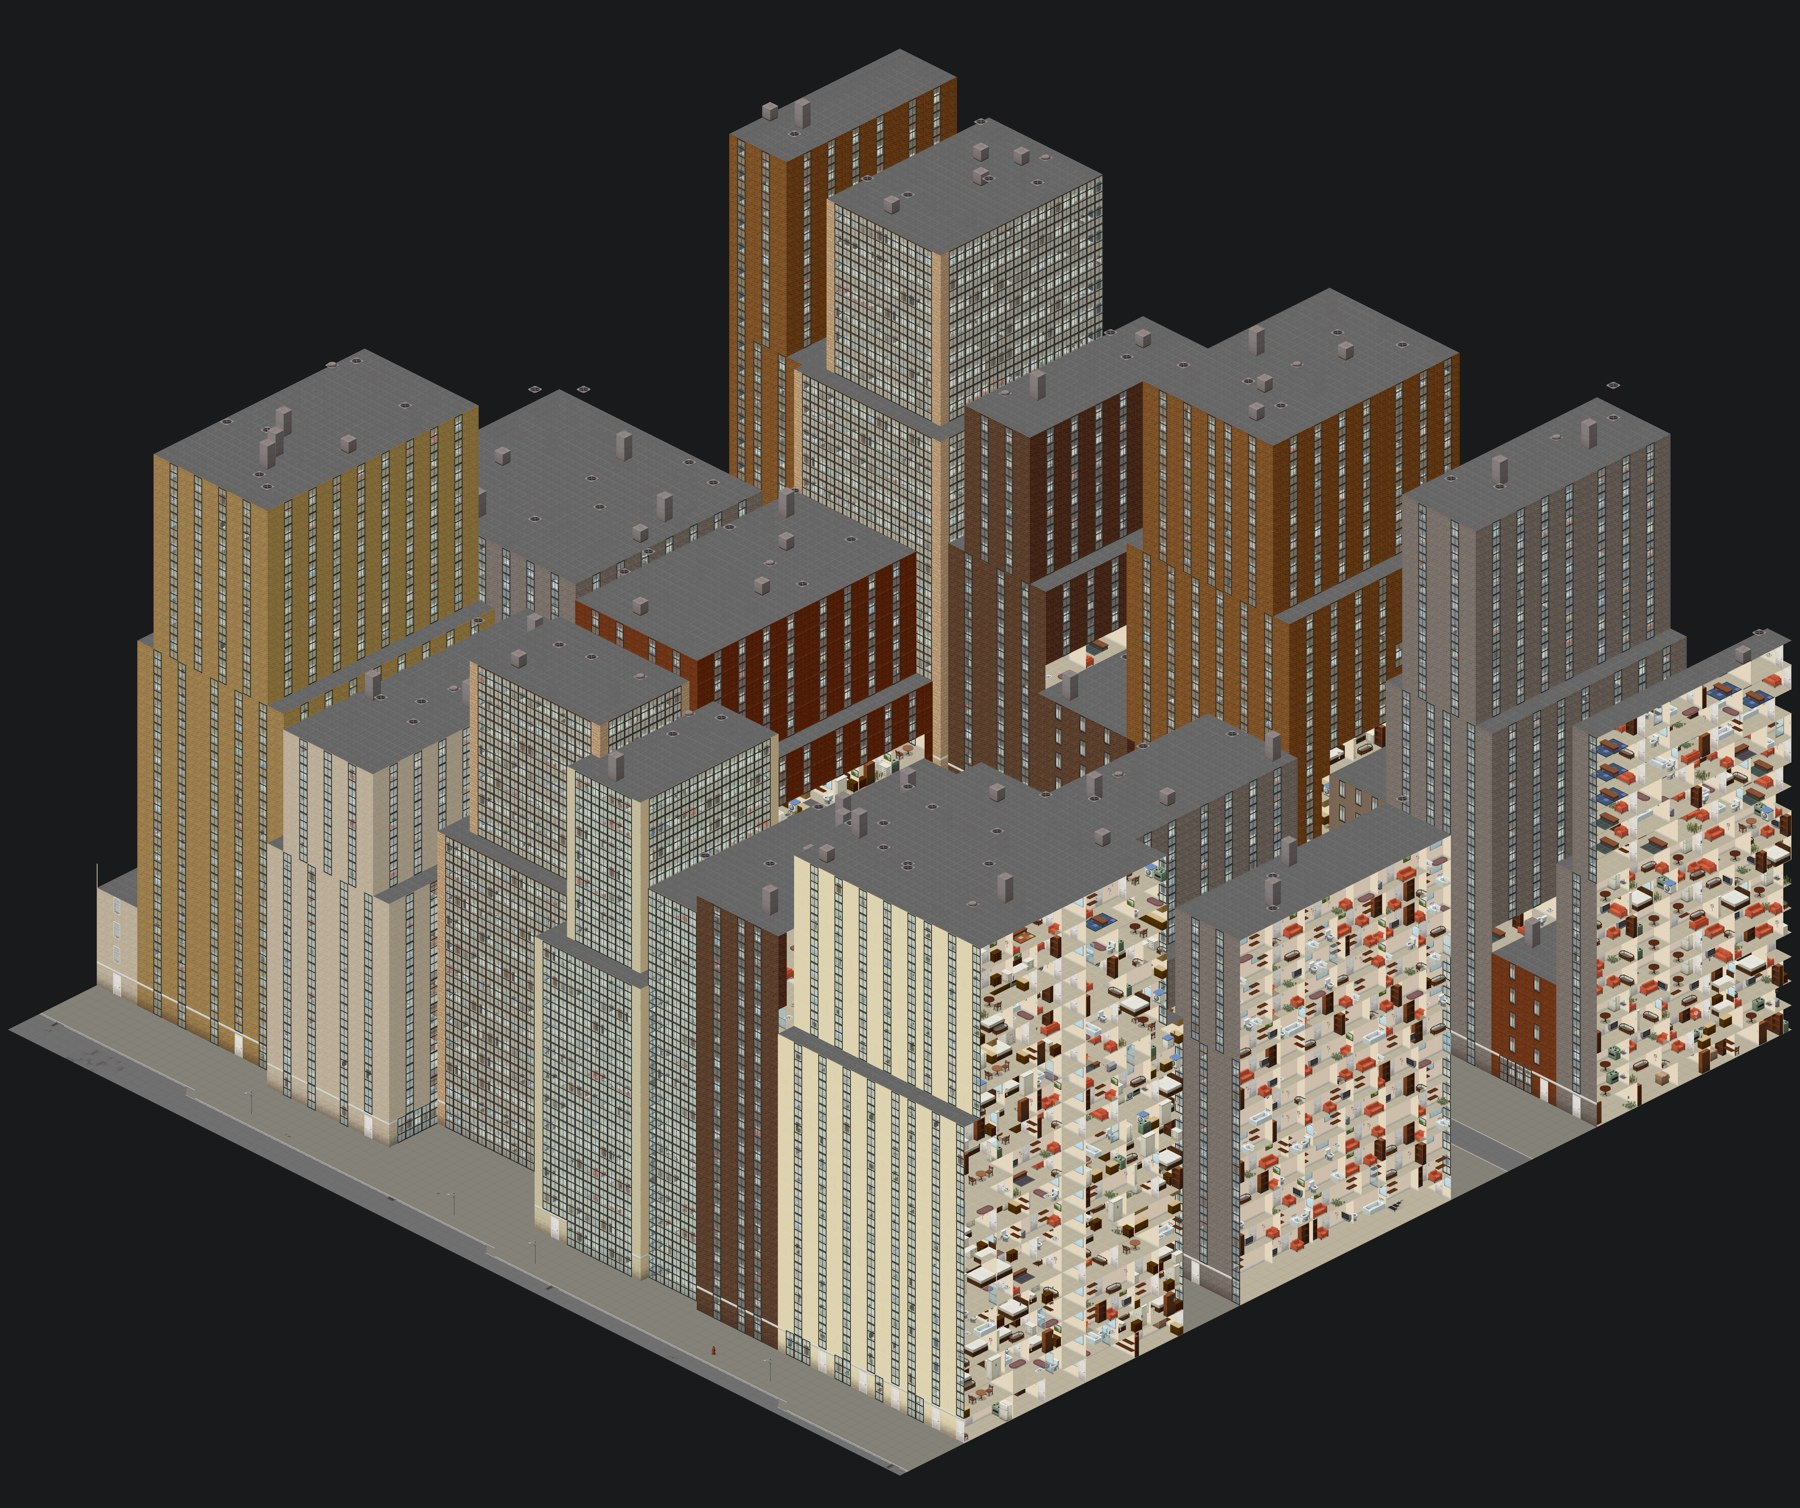
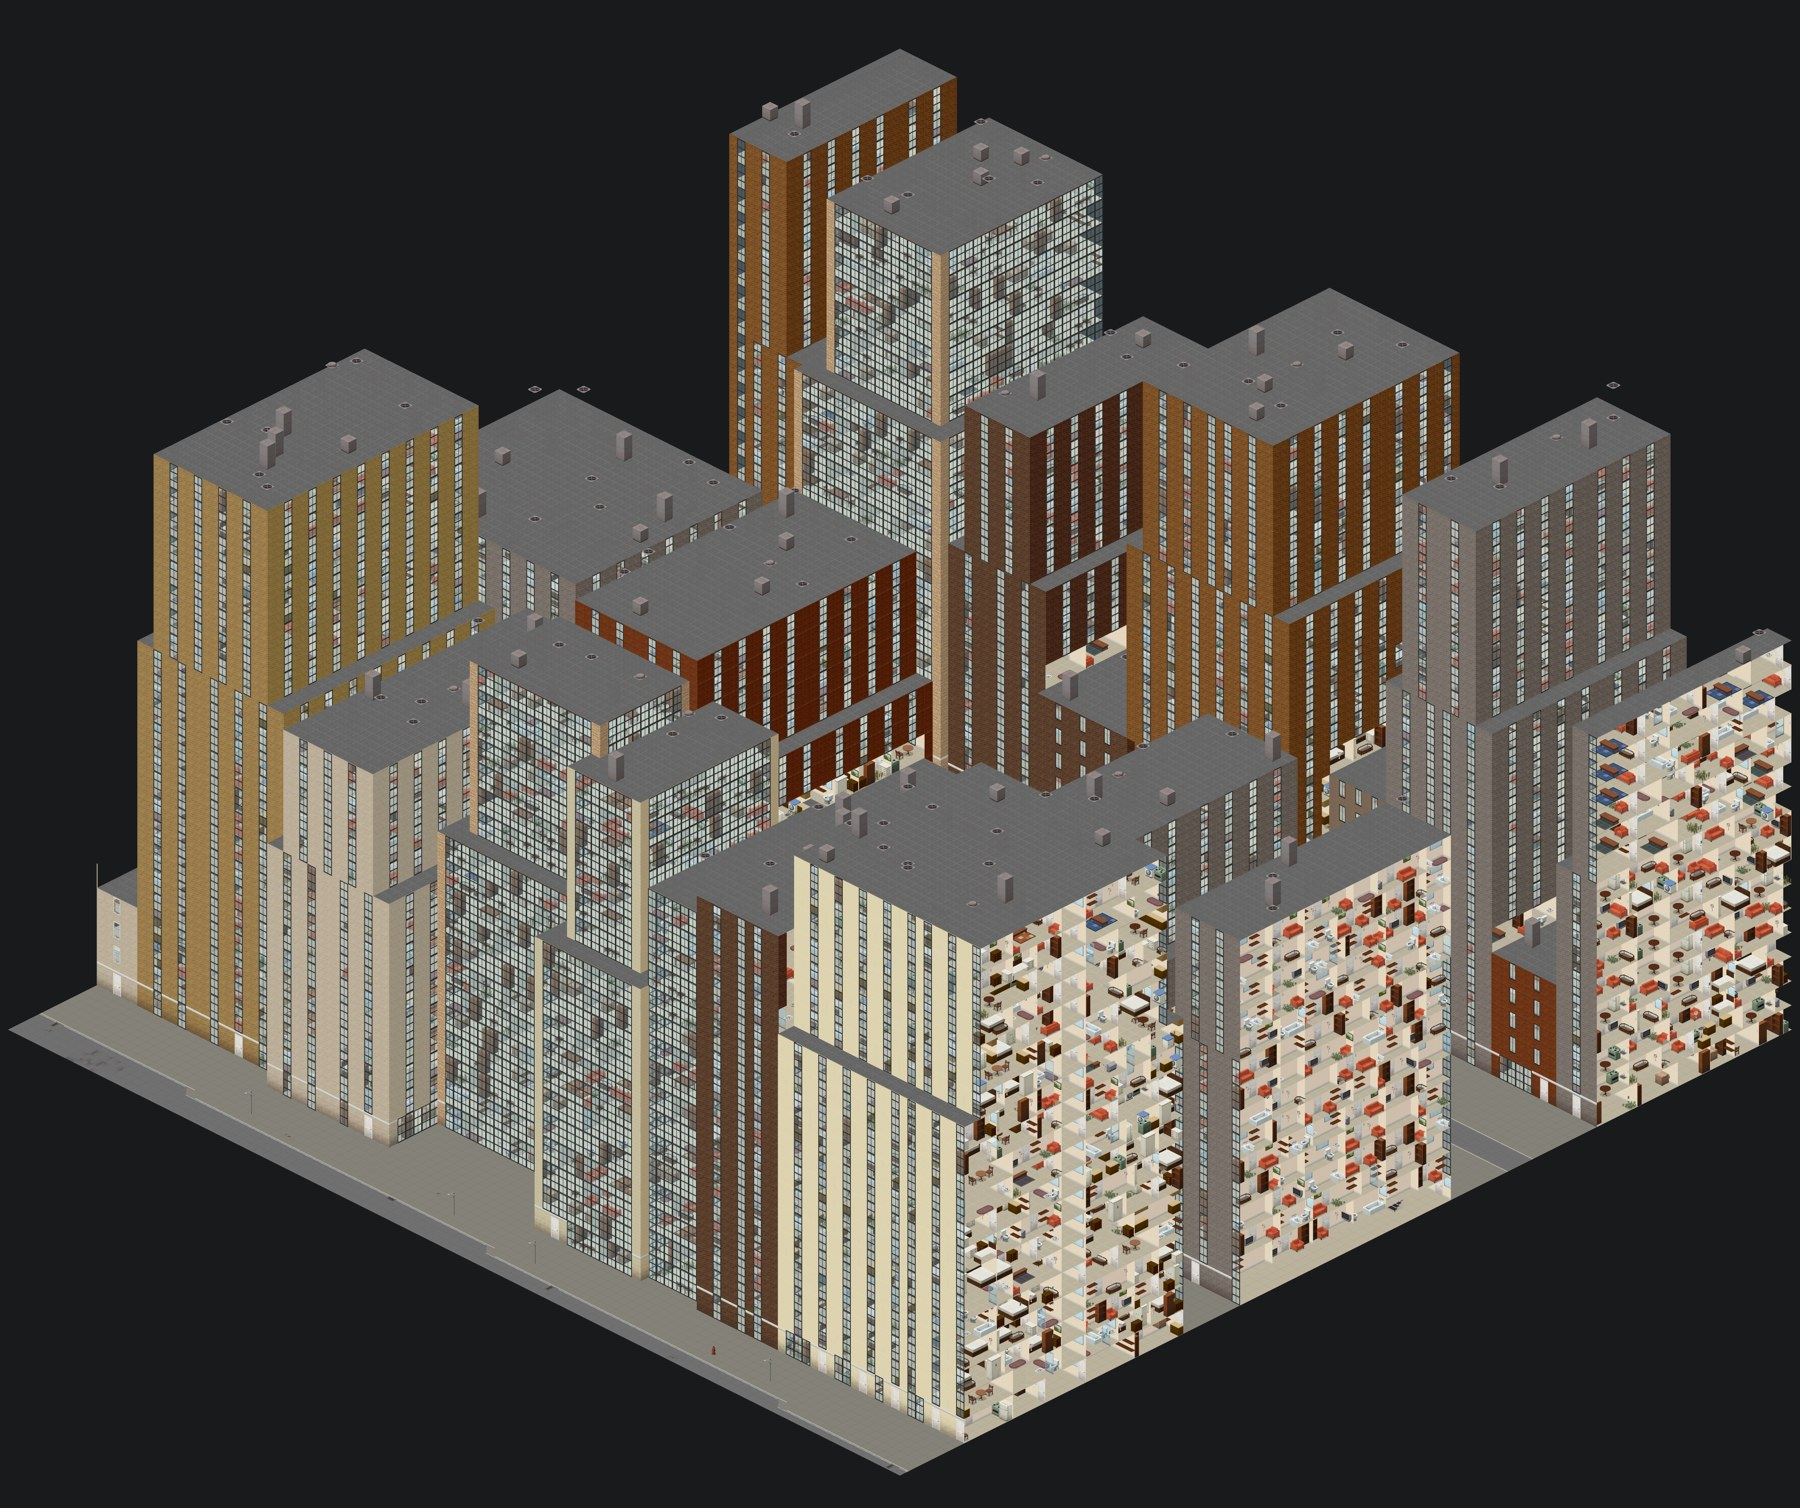
Window openings that fit the window: point the editor at the game
Setup never told the map editor where the game is, and its own search misses
Steam libraries off the default drive. Without the game's tile definitions it
cannot read a window's WindowShape, so every window - floor-to-ceiling glass
panels included - got the small house-window hole in the wall, and tall
windows showed wall behind the glass. Setup now writes ProjectZomboidDirectory
into the editor settings, and compile_map treats newer editor settings as
making old lots stale.

diff --git a/tools/compile_map.py b/tools/compile_map.py
@@ -90,12 +90,19 @@ def clear_stale(project: Path) -> None:
     terrain = newest(project.glob("*.bmp"))
     # The rules are baked in when a bitmap is converted, so new rules (Setup
     # adding street furniture, say) need the conversion done again too.
+    settings_time = 0.0
     tools = knoxpaths.mapping_tools_dir()
     if tools:
         terrain = max(terrain, newest(p for p in (tools / "config" / "Rules.txt",
                                                   tools / "config" / "Blends.txt")
                                       if p.exists()))
-    inputs = max(terrain, newest((project / "buildings").glob("*.tbx")))
+        # Editor settings (the game folder, whose tile definitions shape every
+        # window opening) change what the lots come out as.
+        ini = tools / "settings" / "PZTools.ini"
+        if ini.exists():
+            settings_time = ini.stat().st_mtime
+    inputs = max(terrain, newest((project / "buildings").glob("*.tbx")),
+                 settings_time)
     written = [p for p in lots.glob("*") if p.is_file()] if lots.is_dir() else []
     if written and min(p.stat().st_mtime for p in written) < inputs:
         for p in written:

diff --git a/knoxmap_setup.py b/knoxmap_setup.py
@@ -177,9 +177,16 @@ def configure_tools(tools: Path, game: Path | None) -> None:
     settings = tools / "settings"
     settings.mkdir(exist_ok=True)
     ini = settings / "PZTools.ini"
+    # The game folder too: the editor reads the game's tile definitions from
+    # it, and without them every window - a floor-to-ceiling glass panel as
+    # much as a small sash - got a small house-window hole cut in the wall, so
+    # tall windows showed wall behind the glass. A Steam library off the
+    # default drive is not found by the editor's own search.
+    game_line = f"ProjectZomboidDirectory={game.as_posix()}\n" if game else ""
     ini.write_text("[%General]\nSettingsSchema=2\n\n[Paths]\n"
                    f"ConfigDirectory={config_dir.as_posix()}\n"
-                   f"TilesDirectory={tiles_dir.as_posix()}\n", encoding="utf-8")
+                   f"TilesDirectory={tiles_dir.as_posix()}\n" + game_line,
+                   encoding="utf-8")
     say("      editor paths written")
 
     if game is None:
